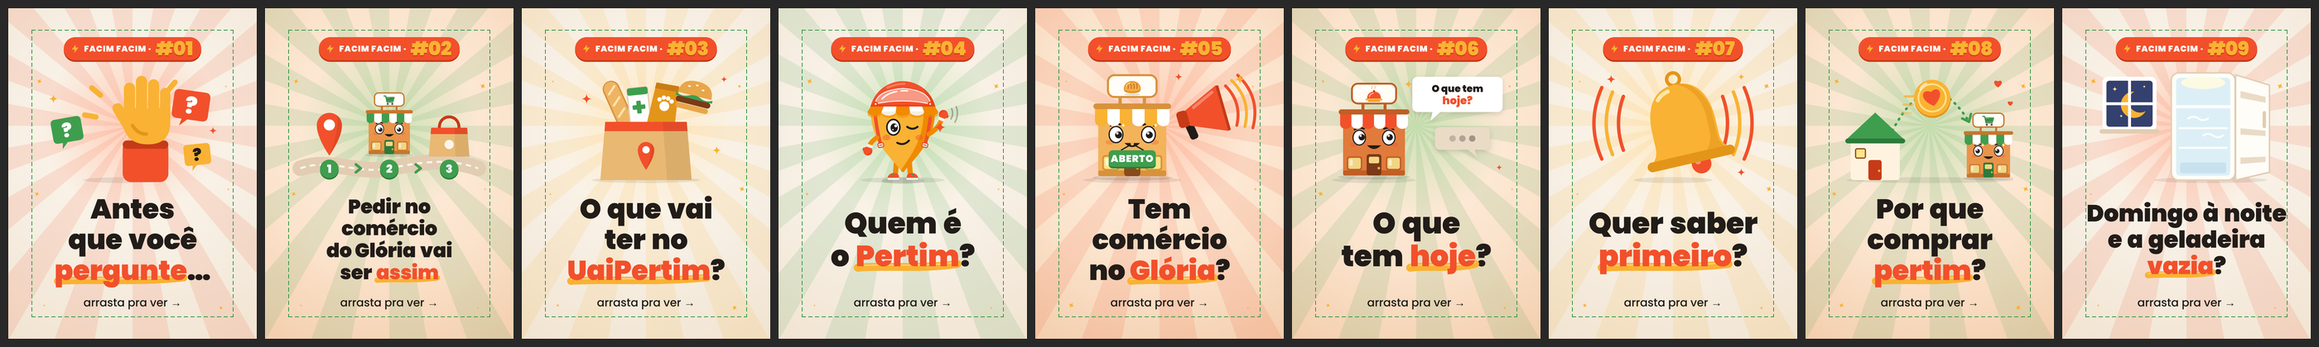
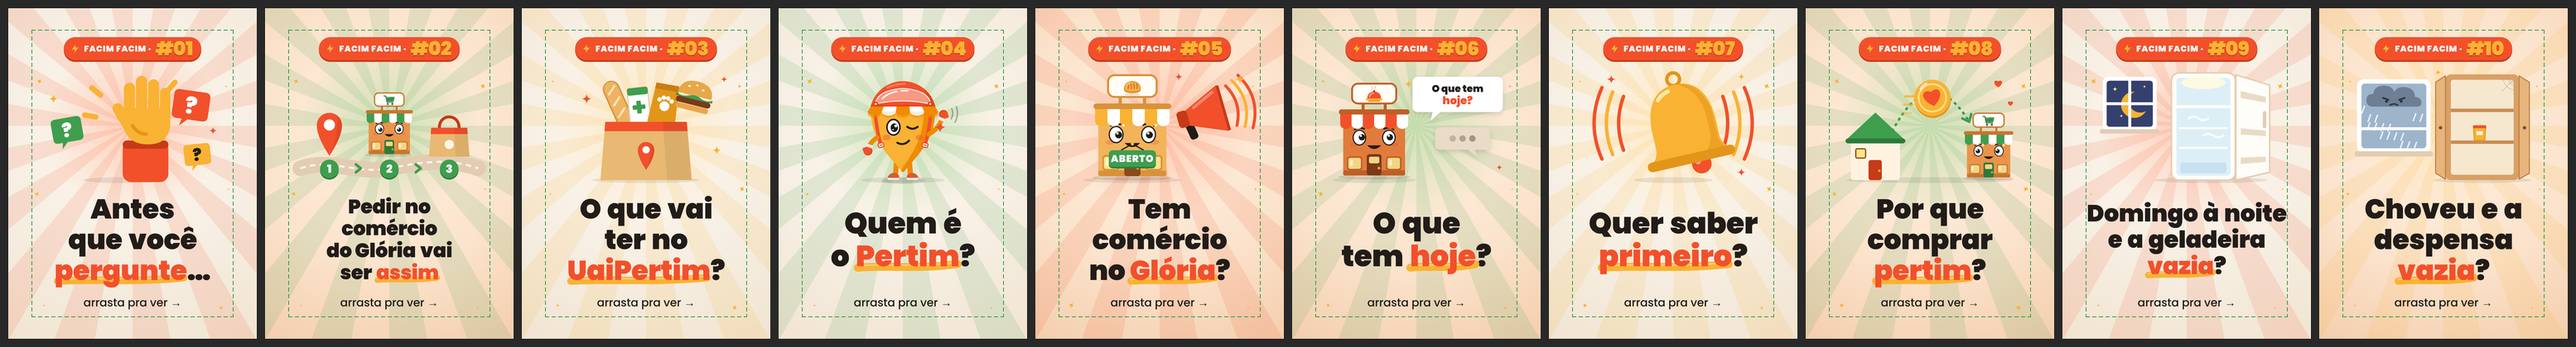
Facim Facim #10: Choveu e a despensa vazia?
- carrossel novo no modelo atual (capa pêssego, raios amarelos): a janela com chuva e a nuvem
  emburrada ao lado da despensa aberta e vazia (um pacotinho e uma teia), sem tela de app
- ícones novos: chuva, despensa e a lojinha mercadim com olhinhos; no slide 5, o Pertim na
  motinha (desenho original) com gotas de chuva e um guarda-chuva preso na garupa
- prévias: capas no recorte 3:4 e a grade com o #10 no topo

Claude-Session: https://claude.ai/code/session_01JAov85soqdY8tSfdSSgiBh

diff --git a/src/carrossel/CarrosselFacim.tsx b/src/carrossel/CarrosselFacim.tsx
@@ -21,9 +21,10 @@ import { fitWrap, Wrapped } from "../dicionario/fit";
 
 export type Icone =
   | "navegador" | "gratis" | "cadastro" | "cidade" | "categoria" | "loja" | "entrega" | "calendario"
-  | "seguir" | "sino" | "check" | "dinheiro" | "lanche" | "sofa" | "duvida" | "mensagem" | "cardapio";
+  | "seguir" | "sino" | "check" | "dinheiro" | "lanche" | "sofa" | "duvida" | "mensagem" | "cardapio" | "chuva" | "despensa" | "mercadim";
 // no lugar do ícone, o Pertim (src/personagem, V1) numa pose da página aprovada, com lojinhas opcionais ao lado
-export type PertimNoSlide = { pose: Pose; expr: Expressao; lojinhas?: ShopCharKind[] };
+// chuva: gotas caindo e um guarda-chuva amarelo preso na garupa da motinha (o desenho do Pertim não muda)
+export type PertimNoSlide = { pose: Pose; expr: Expressao; lojinhas?: ShopCharKind[]; chuva?: boolean };
 // quebra (opcional, na capa e no conteúdo): as linhas do título já definidas; o corpo diminui até todas caberem na margem
 export type Slide = { tipo: "capa" | "conteudo" | "final"; titulo: string; texto?: string; icone?: Icone; pertim?: PertimNoSlide; quebra?: string[] };
 export type Carrossel = { numero: number; chip: string; capa?: "coral" | "creme"; slides: Slide[] };
@@ -154,6 +155,32 @@ const Svg: React.FC<{ children: React.ReactNode }> = ({ children }) => (
   <svg width={ICON} height={ICON} viewBox="0 0 100 100">{children}</svg>
 );
 export const ICONS: Record<Icone, React.ReactNode> = {
+  chuva: (
+    <Svg>
+      <path d="M26 58 Q12 58 12 45 Q12 32 26 32 Q28 16 46 16 Q62 16 66 30 Q86 28 88 45 Q88 58 74 58 Z" fill="#8FA3B8" />
+      <path d="M26 58 Q12 58 12 45 Q14 52 28 52 H72 Q86 52 88 45 Q88 58 74 58 Z" fill="#7189A3" />
+      {[[28, 66], [46, 70], [64, 66], [37, 82], [55, 84]].map(([x, y], i) => (
+        <path key={i} d={`M${x} ${y} q-3 6 0 9 q3 -3 0 -9 Z`} fill="#5BA7E0" stroke="#5BA7E0" strokeWidth="3" strokeLinejoin="round" />
+      ))}
+    </Svg>
+  ),
+  despensa: (
+    <Svg>
+      <rect x="18" y="10" width="64" height="82" rx="8" fill="#D9A066" />
+      <rect x="25" y="17" width="50" height="68" rx="4" fill="#F6E7CF" />
+      <rect x="25" y="44" width="50" height="5" fill="#D9A066" />
+      <rect x="31" y="31" width="12" height="13" rx="2" fill={C.amarelo} />
+      <rect x="31" y="31" width="12" height="4" rx="2" fill={C.coral} />
+      <path d="M60 64 h10 v15 h-10 Z" fill="#fff" stroke="#B97D45" strokeWidth="2" />
+      <rect x="59" y="61" width="12" height="4" rx="2" fill="#7A5233" />
+      <path d="M66 18 L75 18 M75 18 L75 27 M68 18 Q73 23 75 25" stroke="#BDB2A6" strokeWidth="1.5" fill="none" />
+    </Svg>
+  ),
+  mercadim: (
+    <div style={{ width: 92, height: 118, marginTop: -6 }}>
+      <ShopChar kind="mercado" width={92} mood="happy" look={[0, 0.2]} lit={0.9} awning={0.3} />
+    </div>
+  ),
   cardapio: (
     <Svg>
       <rect x="20" y="10" width="60" height="80" rx="10" fill={C.coral} />
@@ -309,6 +336,21 @@ const PertimCena: React.FC<{ p: PertimNoSlide; largura: number }> = ({ p, largur
           </div>
         );
       })}
+      {p.chuva && (
+        // o guarda-chuva amarelo aberto, preso na garupa (atrás do Pertim), e as gotas caindo
+        <svg width={largura} height={PERTIM_BOX} style={{ position: "absolute", left: 0, top: 0, overflow: "visible" }}>
+          {Array.from({ length: 22 }).map((_, i) => {
+            const x = ((i * 137) % 100) / 100 * largura, y = ((i * 61) % 100) / 100 * (PERTIM_BOX - 60);
+            return <line key={i} x1={x} y1={y} x2={x - 8} y2={y + 26} stroke="#7FB8E6" strokeWidth={6} strokeLinecap="round" opacity={0.8} />;
+          })}
+          <g transform={`translate(${cx - w * 0.36} ${PERTIM_BOX - altura * 0.62})`}>
+            <line x1={0} y1={-150} x2={24} y2={70} stroke="#7A5233" strokeWidth={7} strokeLinecap="round" />
+            <path d="M-95 -150 Q-90 -240 0 -246 Q90 -240 95 -150 Q72 -170 48 -150 Q24 -170 0 -150 Q-24 -170 -48 -150 Q-72 -170 -95 -150 Z" fill={C.amarelo} stroke={C.amareloDark} strokeWidth={5} strokeLinejoin="round" />
+            <path d="M0 -246 Q-30 -200 -48 -150 M0 -246 Q30 -200 48 -150" stroke={C.amareloDark} strokeWidth={4} fill="none" />
+            <circle cx={0} cy={-250} r={7} fill={C.coral} />
+          </g>
+        </svg>
+      )}
       <div style={{ position: "absolute", left: cx - w / 2, top: PERTIM_BOX - altura * (moto ? 0.944 : p.pose === "parado" ? 0.951 : 0.947) - 18 }}>
         <Pertim v={1} pose={p.pose} expr={p.expr} altura={altura} rig={{ centro: true }} />
       </div>

diff --git a/src/carrossel/CapaFacim.tsx b/src/carrossel/CapaFacim.tsx
@@ -18,7 +18,7 @@ import { Pertim } from "../personagem/Pertim";
 
 export type CapaNova = { ilustracao: Ilustracao; fundo: "creme" | "pessego"; cor: "coral" | "verde" | "amarelo" };
 export type CapaFacimProps = Carrossel & { capaNova: CapaNova; layout?: { titulo: Wrapped; fonte: string } };
-type Ilustracao = "mao-vez" | "passos" | "sacola" | "loja-aberto" | "sino" | "moeda-coracao" | "geladeira" | "pertim" | "restaurante-balao";
+type Ilustracao = "mao-vez" | "passos" | "sacola" | "loja-aberto" | "sino" | "moeda-coracao" | "geladeira" | "pertim" | "restaurante-balao" | "chuva-despensa";
 
 const H = 1350;
 const SAFE = { x0: 130, x1: 950, y0: 90, y1: 1260 };
@@ -350,9 +350,49 @@ const RestauranteBalao: React.FC = () => {
   );
 };
 
+// C10 · a janela com chuva (nuvem emburrada) e, ao lado, a despensa aberta e vazia: um pacotinho só e uma teia discreta
+const ChuvaDespensa: React.FC = () => (
+  <Svg>
+    <Sombra cx={520} rx={200} />
+    {/* a janela: moldura, vidro de dia nublado, a nuvem emburrada e a chuva */}
+    <rect x="10" y="40" width="300" height="300" rx="26" fill="#fff" />
+    <rect x="28" y="58" width="264" height="264" rx="14" fill="#9DB4CB" />
+    {Array.from({ length: 16 }).map((_, i) => {
+      const x = 40 + ((i * 53) % 240), y = 150 + ((i * 37) % 150);
+      return <line key={i} x1={x} y1={y} x2={x - 10} y2={y + 28} stroke="#E6F1FA" strokeWidth="6" strokeLinecap="round" />;
+    })}
+    <g transform="translate(160 118)">
+      <path d="M-82 34 Q-112 34 -112 8 Q-112 -18 -84 -18 Q-80 -52 -40 -52 Q-8 -52 2 -26 Q12 -48 46 -46 Q84 -42 86 -6 Q112 -4 112 18 Q112 34 92 34 Z" fill="#6E7F93" />
+      <path d="M-44 -2 L-22 6 M44 -2 L22 6" stroke="#2E3742" strokeWidth="7" strokeLinecap="round" />
+      <circle cx="-30" cy="12" r="6" fill="#2E3742" /><circle cx="30" cy="12" r="6" fill="#2E3742" />
+      <path d="M-16 28 Q0 18 16 28" stroke="#2E3742" strokeWidth="6" strokeLinecap="round" fill="none" />
+    </g>
+    <rect x="28" y="236" width="264" height="12" fill="#fff" />
+    <rect x="0" y="334" width="320" height="22" rx="11" fill={C.cremeDeep} />
+    {/* a despensa: o armário de madeira aberto, vazio */}
+    <rect x="370" y="20" width="300" height="432" rx="22" fill="#D9A066" />
+    <rect x="392" y="42" width="256" height="388" rx="10" fill="#F6E7CF" />
+    {[160, 290].map((y) => <rect key={y} x="392" y={y} width="256" height="14" fill="#C88E55" />)}
+    {/* as portas abertas, em perspectiva */}
+    <path d="M370 26 L330 52 V424 L370 448 Z" fill="#E7B47C" stroke="#B97D45" strokeWidth="4" strokeLinejoin="round" />
+    <path d="M670 26 L712 52 V424 L670 448 Z" fill="#E7B47C" stroke="#B97D45" strokeWidth="4" strokeLinejoin="round" />
+    <circle cx="350" cy="238" r="7" fill="#7A5233" /><circle cx="692" cy="238" r="7" fill="#7A5233" />
+    {/* o pacotinho solitário */}
+    <path d="M484 236 H534 L530 290 H488 Z" fill={C.amarelo} stroke={C.amareloDark} strokeWidth="4" strokeLinejoin="round" />
+    <rect x="482" y="228" width="54" height="12" rx="4" fill={C.coral} />
+    <rect x="496" y="252" width="26" height="16" rx="4" fill="#fff" opacity="0.85" />
+    {/* a teia, discreta, no canto de cima */}
+    <g stroke="#B8AEA3" strokeWidth="2" fill="none" opacity="0.8">
+      <path d="M648 42 L590 42 M648 42 L648 100 M648 42 L600 90" />
+      <path d="M626 42 Q630 60 648 64 M606 42 Q614 78 648 84 M634 42 Q636 52 648 52" />
+    </g>
+    <Brilho x={340} y={12} s={26} />
+  </Svg>
+);
+
 const ILUSTRACOES: Record<Ilustracao, React.FC> = {
   "mao-vez": MaoVez, passos: Passos, sacola: Sacola, "loja-aberto": LojaAberto, sino: Sino, "moeda-coracao": MoedaCoracao, geladeira: Geladeira,
-  pertim: PertimAcenando, "restaurante-balao": RestauranteBalao,
+  pertim: PertimAcenando, "restaurante-balao": RestauranteBalao, "chuva-despensa": ChuvaDespensa,
 };
 
 // ---------------------------------------------------------------- a capa

diff --git a/src/Root.tsx b/src/Root.tsx
@@ -49,6 +49,7 @@ import facim06 from "../carrosseis/facim/06-o-que-tem-hoje.json";
 import facim07 from "../carrosseis/facim/07-saber-primeiro.json";
 import facim08 from "../carrosseis/facim/08-por-que-comprar-pertim.json";
 import facim09 from "../carrosseis/facim/09-domingo-a-noite.json";
+import facim10 from "../carrosseis/facim/10-choveu-despensa-vazia.json";
 
 // Capas novas dos carrosséis "Facim Facim" (só o slide-1, no modelo das capas do Dicionário): o título é medido com
 // as fontes carregadas. Um carrossel entra aqui quando o JSON dele tem o campo "capaNova".
@@ -61,7 +62,7 @@ const capaReelMetadata = async ({ props }: { props: CapaReelProps }) => {
   await fontsReady;
   return { props: { ...props, layout: measureCapaReel(props) } };
 };
-const CAPAS_FACIM = [facim01, facim02, facim03, facim04, facim05, facim06, facim07, facim08, facim09] as unknown as CapaFacimProps[];
+const CAPAS_FACIM = [facim01, facim02, facim03, facim04, facim05, facim06, facim07, facim08, facim09, facim10] as unknown as CapaFacimProps[];
 
 // Cortes curtos: duração = trecho do original + fecho; textos medidos com as fontes carregadas.
 const corteMetadata = async ({ props }: { props: CorteProps }) => {
